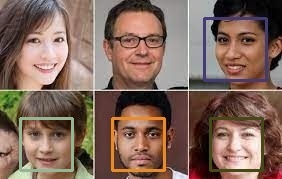
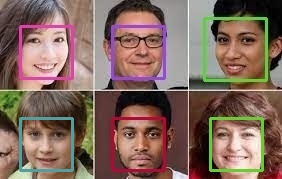
Editar utente já funcional.

diff --git a/ProjetoPDS/website/scriptaddPublicacao.js b/ProjetoPDS/website/scriptaddPublicacao.js
@@ -88,6 +88,11 @@ document.getElementById('addPublicacao').addEventListener('submit', async functi
                 headerTabelaDadosIdentificados.append(headerDadosCorIdentificados);
 
 
+                // Auxiliares para verificar se algum dos dados foram modificados.
+                const auxNomeUtilizadorInput = []
+                const auxValenciaUtilizadorInput = []
+                const auxSalaUtilizadorInput = []
+                const auxAutorizacaoInput = []
                 for(let i = 0 ; i < utentesVerificados.length; i++)
                     {
                         // Cria nova linha
@@ -142,13 +147,17 @@ document.getElementById('addPublicacao').addEventListener('submit', async functi
                         var primeiraCor = 0
                         var segundaCor = 0
                         var terceiraCor = 0
-                        primeiraCor = utentesVerificados[i].PrimeiraCor;   
-                        segundaCor = utentesVerificados[i].PrimeiraCor;   
-                        terceiraCor = utentesVerificados[i].PrimeiraCor;   
+                        primeiraCor = utentesVerificados[i].primeiraCor;   
+                        segundaCor = utentesVerificados[i].segundaCor;   
+                        terceiraCor = utentesVerificados[i].terceiraCor;   
                         corUtilizador.setAttribute('id', 'corIdentificado' + (i + 1));
                         corUtilizador.style.backgroundColor = `rgb(${primeiraCor}, ${segundaCor}, ${terceiraCor})`;
                         corUtilizador.innerHTML='.'
                         corTd.append(corUtilizador);
+                        auxNomeUtilizadorInput.push(nomeUtilizadorInput.value);
+                        auxValenciaUtilizadorInput.push(valenciaUtilizadorInput.value);
+                        auxSalaUtilizadorInput.push(salaUtilizadorInput.value);
+                        auxAutorizacaoInput.push(autUtilizadorInput.value);
                     }
                     const sendDataToEdit = document.createElement('button');
                     sendDataToEdit.textContent = 'Editar Pessoa(s)';
@@ -160,11 +169,14 @@ document.getElementById('addPublicacao').addEventListener('submit', async functi
                             const salaUtilizadorId = document.getElementById('SalaIdentificado'+(i+1));
                             const autUtilizadorId = document.getElementById('autIdentificado'+(i+1));
                             const corUtilizadorId = document.getElementById('corIdentificado'+(i+1));
+                            const idUtilizadorBd = utentesVerificados[i].id;
                             const valorCor = window.getComputedStyle(corUtilizadorId);
                             const valorCorAux = valorCor.backgroundColor;
-                            if (nomeUtilizadorId.value == "" && valenciaUtilizadorId.value == "" && salaUtilizadorId.value == "" 
-                                    && autUtilizadorId.value == "")
-                                        continue;
+                            if(auxNomeUtilizadorInput[i] == nomeUtilizadorId.value && 
+                               auxValenciaUtilizadorInput[i] == valenciaUtilizadorId.value &&
+                               auxSalaUtilizadorInput[i] == salaUtilizadorId.value &&
+                               auxAutorizacaoInput[i] == autUtilizadorId.value )
+                               continue;
                             nomeUtilizador = nomeUtilizadorId.value;
                             valenciaUtilizador = valenciaUtilizadorId.value;
                             salaUtilizador = salaUtilizadorId.value;
@@ -178,8 +190,8 @@ document.getElementById('addPublicacao').addEventListener('submit', async functi
                                 segundaCor = parseInt(rgbValues[1]);
                                 terceiraCor = parseInt(rgbValues[2]); 
                             }
-                            await editarDadosPessoas(auxPosX, auxPosY, nomeUtilizador, valenciaUtilizador, salaUtilizador,
-                                autUtilizador, fotoOriginal, nomeFotoFicheiro, utentesVerificados, primeiraCor, segundaCor,
+                            await editarDadosPessoa(idUtilizadorBd,nomeUtilizador, valenciaUtilizador, salaUtilizador,
+                                autUtilizador, utentesVerificados, primeiraCor, segundaCor,
                                     terceiraCor);        
                         }
                     })
@@ -267,9 +279,9 @@ document.getElementById('addPublicacao').addEventListener('submit', async functi
                         var primeiraCor = 0
                         var segundaCor = 0
                         var terceiraCor = 0
-                        primeiraCor = utentesVerificar[i].PrimeiraCor;   
-                        segundaCor = utentesVerificar[i].SegundaCor;   
-                        terceiraCor = utentesVerificar[i].TerceiraCor;   
+                        primeiraCor = utentesVerificar[i].primeiraCor;   
+                        segundaCor = utentesVerificar[i].segundaCor;   
+                        terceiraCor = utentesVerificar[i].terceiraCor;   
                         corUtilizador.setAttribute('id', 'corNaoIdentificado' + (i + 1));
                         corUtilizador.style.backgroundColor = `rgb(${primeiraCor}, ${segundaCor}, ${terceiraCor})`;
                         corUtilizador.innerHTML='.'
@@ -390,29 +402,25 @@ async function enviarDadosPessoa(posX, posY, nome, valencia, sala, aut, nomeDire
     }
 }
 
-async function editarDadosPessoas(posX, posY, nome, valencia, sala, aut, nomeDiretorio, nomeFotoFicheiro, utentesVerificados, primeiraCor,
-                                    segundaCor, terceiraCor)
+async function editarDadosPessoa(idUtilizadorBd, nome, valencia, sala, aut, utentesVerificados, primeiraCor, segundaCor, terceiraCor)
 {
     alert('Estou a enviar dados para alterar uma pessoa.')
     try
     {
-        const formDataPessoa = new FormData();
-        formDataPessoa.append('imagemOriginal', nomeDiretorio);
-        formDataPessoa.append('nomeFoto', nomeFotoFicheiro);
-        formDataPessoa.append('nome', nome);
-        formDataPessoa.append('val',valencia);
-        formDataPessoa.append('sala',sala);
-        formDataPessoa.append('aut', aut);
-        formDataPessoa.append('posX', posX);
-        formDataPessoa.append('posY', posY);
-        formDataPessoa.append('utentesVerificados', JSON.stringify(utentesVerificados));
-        formDataPessoa.append('corP', primeiraCor)
-        formDataPessoa.append('corS', segundaCor)
-        formDataPessoa.append('corT', terceiraCor)
+        const formDataEditPessoa = new FormData();
+        formDataEditPessoa.append('idUtente', idUtilizadorBd);
+        formDataEditPessoa.append('nome', nome);
+        formDataEditPessoa.append('val',valencia);
+        formDataEditPessoa.append('sala',sala);
+        formDataEditPessoa.append('aut', aut);
+        formDataEditPessoa.append('utentesVerificados', JSON.stringify(utentesVerificados));
+        formDataEditPessoa.append('corP', primeiraCor)
+        formDataEditPessoa.append('corS', segundaCor)
+        formDataEditPessoa.append('corT', terceiraCor)
         const apiURL = 'https://localhost:7248/Publicacao/EditarRegisto';
         const requestOptionsPessoa = {
             method:'PUT',
-            body: formDataPessoa,
+            body: formDataEditPessoa,
         };
 
         const response = await fetch(apiURL, requestOptionsPessoa);

diff --git a/ProjetoPDS/Controllers/PublicacaoController.cs b/ProjetoPDS/Controllers/PublicacaoController.cs
@@ -115,9 +115,14 @@ namespace ProjetoPDS.Controllers
                 if (u.Nome != null)
                     auxListaUtentesIdentificados.Add(u);
             }
+            //Criar metodo para mostraridentificados
             string nomeDiretorioAux = "";
+            string nomeFicheiroAux = "";
+            if(utentesIdentificados.Count>0)
+                nomeDiretorioAux = novoReconhecimento.MostrarIdentificados(nomeFicheiro, nomeDiretorio, auxListaUtentesIdentificados, out nomeFicheiroAux);
+                
             if (utentesPorVerificar.Count > 0)
-                nomeDiretorioAux = novoReconhecimento.MostrarNaoIdentificados(nomeFicheiro, nomeDiretorio, utentesPorVerificar);
+                nomeDiretorioAux = novoReconhecimento.MostrarNaoIdentificados(nomeFicheiroAux, nomeDiretorioAux, utentesPorVerificar);
             var fotoParaVerificar = new
             {
                 nomeFoto = nomeFicheiro,
@@ -166,7 +171,7 @@ namespace ProjetoPDS.Controllers
         /// <returns></returns>
         [HttpPost]
         [Route("RealizarRegisto")]
-        public async Task<IActionResult> AdicionarUtente([FromForm] string imagemOriginal, [FromForm] string nomeFoto, [FromForm] string nome, [FromForm] string val, [FromForm] string sala, [FromForm] int aut, [FromForm] int posX, [FromForm] int posY, [FromForm] string utentesPorVerificar
+        public async Task<IActionResult> AdicionarUtente([FromForm] string nome, [FromForm] string val, [FromForm] string sala, [FromForm] int aut, [FromForm] int posX, [FromForm] int posY, [FromForm] string utentesPorVerificar
                                                          , [FromForm] int corP, [FromForm] int corS, [FromForm] int corT)
         {
             if (val == null || posX <= 0 || posY <= 0 || sala == null || aut == 0 || nome == null || utentesPorVerificar == null)
@@ -203,29 +208,34 @@ namespace ProjetoPDS.Controllers
         /// <summary>
         /// Edita um utente.
         /// </summary>
-        /// <param name="imagemOriginal"></param>
-        /// <param name="nomeFoto"></param>
         /// <param name="nome"></param>
         /// <param name="val"></param>
         /// <param name="sala"></param>
         /// <param name="aut"></param>
-        /// <param name="posX"></param>
-        /// <param name="posY"></param>
         /// <param name="utentesVerificados"></param>
-        /// <param name="corP"></param>
-        /// <param name="corS"></param>
-        /// <param name="corT"></param>
         /// <returns></returns>
         [HttpPut]
-        [Route("RealizarRegisto")]
+        [Route("EditarRegisto")]
 
-        public async Task<IActionResult> EditarUtente([FromForm] string imagemOriginal, [FromForm] string nomeFoto, [FromForm] string nome, [FromForm] string val, [FromForm] string sala, [FromForm] int aut, [FromForm] int posX, [FromForm] int posY, [FromForm] string utentesVerificados
-                                                       , [FromForm] int corP, [FromForm] int corS, [FromForm] int corT)
+        public async Task<IActionResult> EditarUtente([FromForm] int idUtente, [FromForm] string nome, [FromForm] string val, [FromForm] string sala, 
+            [FromForm] int aut, [FromForm] string utentesVerificados)
         {
-            if (val == null || posX <= 0 || posY <= 0 || sala == null || aut == 0 || nome == null || utentesVerificados == null)
+            if (val == null || sala == null || aut == 0 || nome == null || utentesVerificados == null)
                 return BadRequest();
             
+            List<UtenteIdentificado> listaExistentes = JsonConvert.DeserializeObject<List<UtenteIdentificado>>(utentesVerificados);
 
+            var existeUtente = baseDados.Utente.FirstOrDefault(u => u.idUtente == idUtente);
+            if(existeUtente!=null)
+            {
+                existeUtente.Nome = nome;
+                existeUtente.Sala = sala;
+                existeUtente.Valencia = val;
+                existeUtente.Autorizacao = aut;
+
+                baseDados.Update(existeUtente);
+                await baseDados.SaveChangesAsync();
+            }
             return Ok();
         }
 

diff --git a/ProjetoPDS/Classes/FotoComDesfoque.cs b/ProjetoPDS/Classes/FotoComDesfoque.cs
@@ -10,7 +10,6 @@
 using Newtonsoft.Json;
 using Python.Runtime;
 using System.ComponentModel.DataAnnotations;
-using System.Runtime.Serialization;
 
 namespace ProjetoPDS.Classes
 {
@@ -203,6 +202,39 @@ namespace ProjetoPDS.Classes
                 return exists;
             }
         }
+
+        /// <summary>
+        /// Cria uma nova imagem que irá conter todas as caras identificadas.
+        /// </summary>
+        /// <param name="nomeFicheiro"></param>
+        /// <param name="nomeDiretorio"></param>
+        /// <param name="listaVerificados"></param>
+        /// <returns></returns>
+        public string MostrarIdentificados(string nomeFicheiro, string nomeDiretorio, List<UtenteIdentificado> listaVerificados, out string nomeFicheiroAux)
+        {
+            string imagemVerificarPath = "";
+            dynamic facilRecMod = Py.Import("recognition");
+            dynamic loadEncFunc = facilRecMod.censure_results_identified;
+
+            bool firstIteration = false;
+            string auxNomeFicheiro = Path.GetFileNameWithoutExtension(nomeFicheiro);
+            Random numerosRandom = new Random();
+            foreach (UtenteIdentificado u in listaVerificados)
+            {
+                if (!firstIteration)
+                {
+                    dynamic execFunc = loadEncFunc(auxNomeFicheiro, nomeDiretorio, u.PrimeiraCor, u.SegundaCor, u.TerceiraCor, u.Left, u.Top, u.Right, u.Bottom);
+                    imagemVerificarPath = execFunc.ToString();
+                    firstIteration = true;
+                }
+                else
+                {
+                    dynamic execFunc = loadEncFunc(auxNomeFicheiro, imagemVerificarPath, u.PrimeiraCor, u.SegundaCor, u.TerceiraCor, u.Left, u.Top, u.Right, u.Bottom);
+                }
+            }
+            nomeFicheiroAux = Path.GetFileNameWithoutExtension(imagemVerificarPath);
+            return imagemVerificarPath;
+        }
         /// <summary>
         /// Cria uma nova imagem que irá conter todas as caras não identificadas.
         /// </summary>
@@ -218,7 +250,7 @@ namespace ProjetoPDS.Classes
                 sys.path.append(@"C:\Users\marco\source\repos\Projeto_PDS\ProjetoPDS\FaceRecognition");
 
                 dynamic facilRecMod = Py.Import("recognition");
-                dynamic loadEncFunc = facilRecMod.censure_results_2;
+                dynamic loadEncFunc = facilRecMod.censure_results_non_identified;
                 bool firstIteration = false;
                 string auxNomeFicheiro = Path.GetFileNameWithoutExtension(nomeFicheiro);
                 Random numerosRandom = new Random();
@@ -289,9 +321,7 @@ namespace ProjetoPDS.Classes
         /// <returns></returns>
         public Utente AdicionarUtenteClick(string nomeFic, string nomeDir, int posX, int posY, List<UtenteVerificar> listaUtentes, string val, string sala, int aut, string nome, int corP, int corS, int corT)
         {
-            //dynamic sys = Py.Import("sys");
-            //sys.path.append(@"C:\Users\marco\source\repos\Projeto_PDS\ProjetoPDS\FaceRecognition");
-
+            
             dynamic facilRecMod = Py.Import("recognition");
             dynamic loadEncFunc = facilRecMod.add_utente_click;
             bool existe = false;

diff --git a/ProjetoPDS/FaceRecognition/recognition.py b/ProjetoPDS/FaceRecognition/recognition.py
@@ -114,7 +114,25 @@ def censure_results_click(fileName, pathToFile, posX, posY, left, top, right, bo
             print('teste')
 
 
-def censure_results_2(fileName, pathToFile, firstColor, secondColor, thirdColor, left, top, right, bottom):
+def censure_results_identified(fileName, pathToFile, firstColor, secondColor, thirdColor, left, top, right, bottom):
+    image = cv2.imread(pathToFile)
+    cv2.rectangle(image, (left,top), (right,bottom),(firstColor, secondColor, thirdColor),2)
+    face_image = image[top:bottom, left:right]
+    image[top:bottom, left:right] = face_image
+    try:
+        currentDirectory = os.getcwd()
+        folderName = "Fotos_Por_Verificar"
+        newDirectory = os.path.join(currentDirectory, "website", "Imagens","Fotos_Por_Verificar")
+        if not os.path.exists(newDirectory):
+            os.makedirs(newDirectory)
+        newImage = os.path.join(newDirectory, fileName + ".jpg")
+        cv2.imwrite(newImage,image)
+        return newImage
+    except IndexError:
+        print('teste')    
+    
+
+def censure_results_non_identified(fileName, pathToFile, firstColor, secondColor, thirdColor, left, top, right, bottom):
     image = cv2.imread(pathToFile)
     cv2.rectangle(image, (left,top), (right,bottom),(firstColor, secondColor, thirdColor),2)
     face_image = image[top:bottom, left:right]
